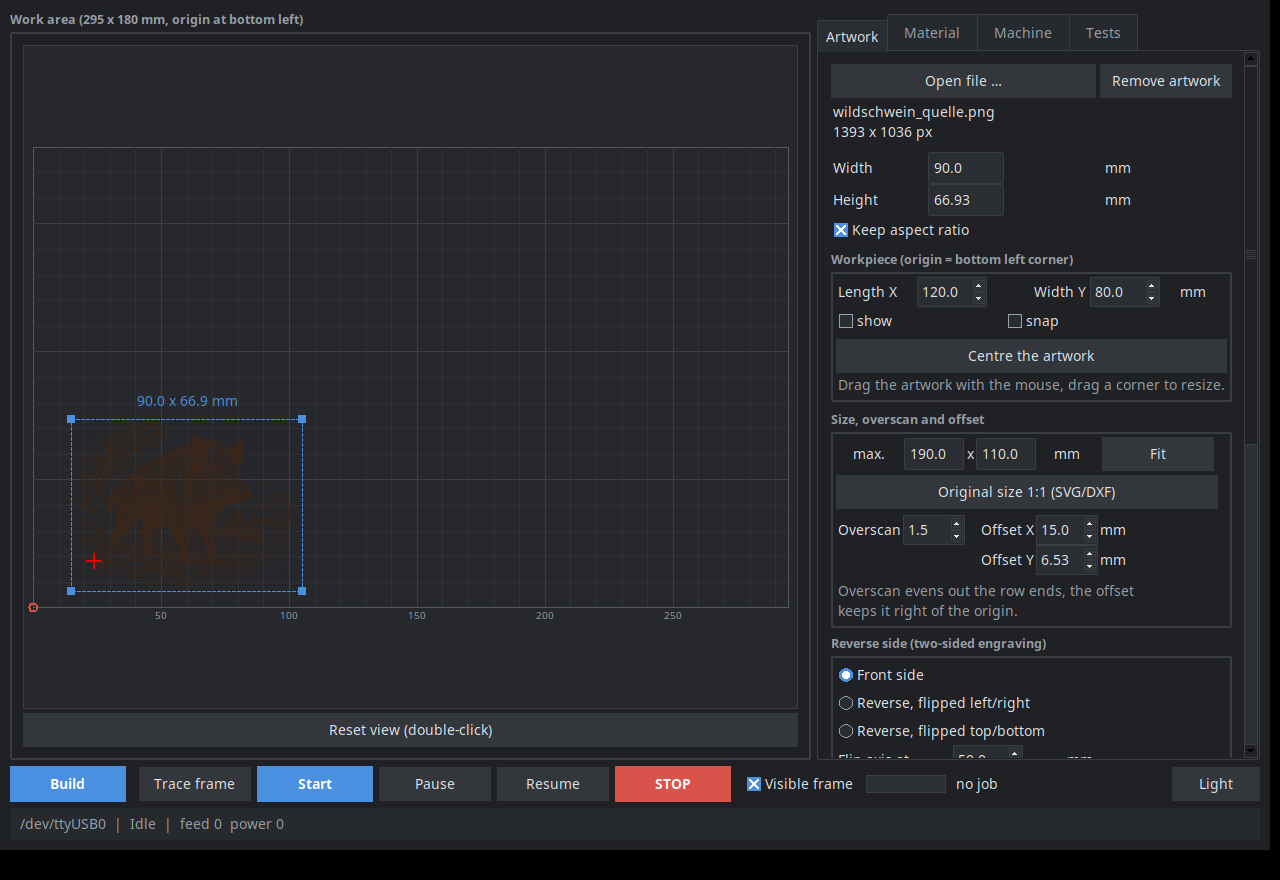
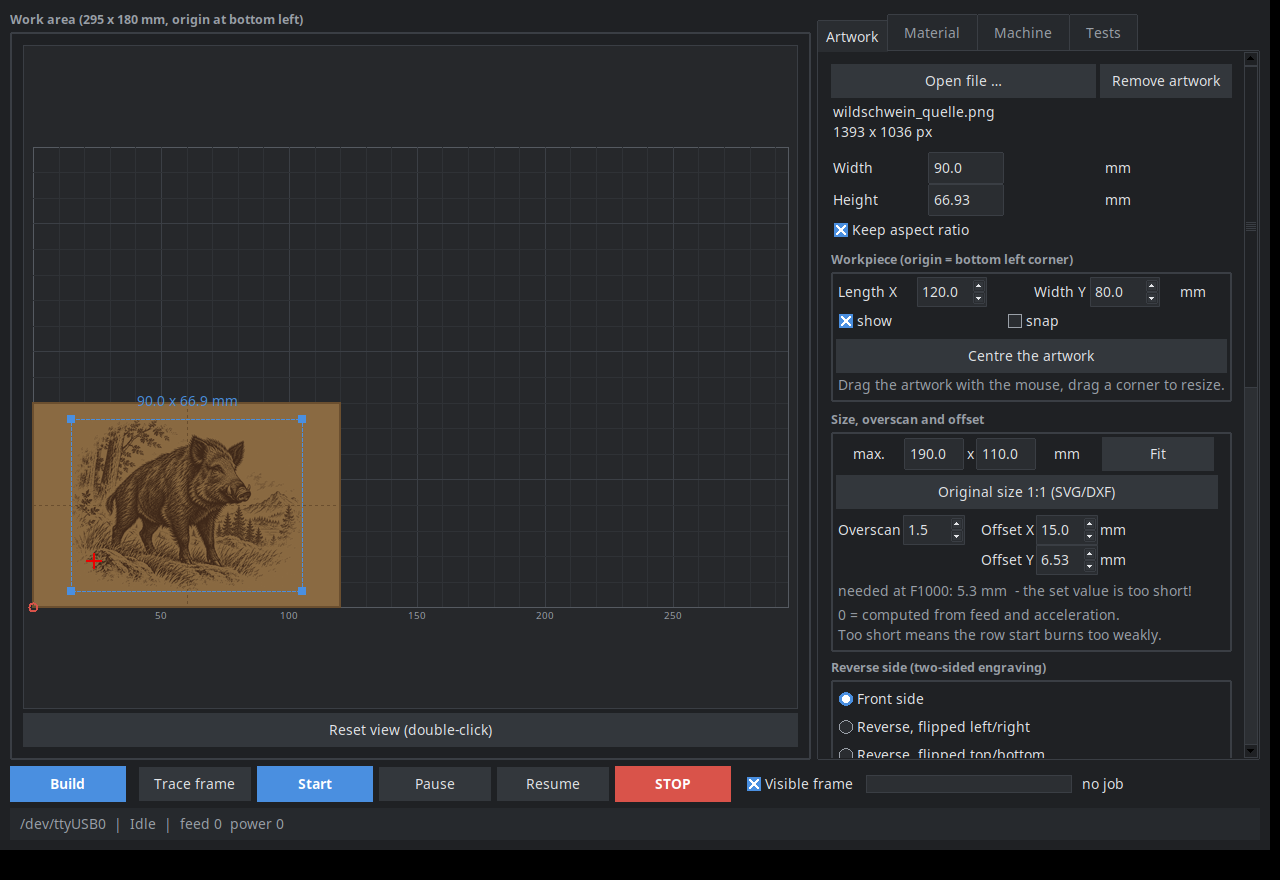
Bildkorrektur: Helligkeit, Kontrast, Schaerfen, Auto
Ohne das ist die Rasterung fuer Fotos unbrauchbar. Am Adler gemessen:
der Hintergrund liegt bei Helligkeit 237, also 7 Prozent Schwaerze, und
wird deshalb als duenner Punkteteppich ueber die ganze Flaeche gebrannt -
36 Prozent der Flaeche, und das Motiv versinkt darin. Nach Auto sind es
24 Prozent, der Hintergrund bleibt blankes Holz.

'Auto' nimmt das 1. und das 80. Perzentil als Schwarz- und Weisspunkt und
rechnet daraus die beiden Regler zurueck, der Benutzer sieht also, was
geschehen ist. Das obere Perzentil ist beherzt gewaehlt: was heller als
vier Fuenftel ist, soll auf Holz gar nicht brennen. Strichgrafik ruehrt
das nicht an - am Keiler gegengeprueft, dort schlaegt Auto 0/0 vor.

Die Korrektur gilt fuer alle drei Modi, wird in der Vorschau beim Schieben
schon gezeigt und wandert ins Projekt.

diff --git a/laserwerk.py b/laserwerk.py
@@ -124,7 +124,8 @@ class App:
         for v in (self.v_inv, self.v_mode, self.v_schw, self.v_rot,
                   self.v_s, self.v_f, self.v_line, self.v_job, self.v_passes,
                   self.v_xoff, self.v_over, self.v_yoff, self.v_gamma,
-                  self.v_spiegel, self.v_achse):
+                  self.v_spiegel, self.v_achse,
+                  self.v_hell, self.v_kontrast, self.v_schaerfe):
             v.trace_add("write", lambda *a: self._stale())
         for v in (self.v_f, self.v_over):
             v.trace_add("write", lambda *a: self._anlauf_zeigen())
@@ -323,8 +324,36 @@ class App:
         self.lbl_gammahilfe.grid(row=15, column=0, columnspan=3, sticky="w")
         self._gamma_zeigen()
 
+        bk = ttk.LabelFrame(f, text=T("Bildkorrektur"), padding=4)
+        bk.grid(row=16, column=0, columnspan=3, sticky="ew", pady=(8, 0))
+        self.v_hell = tk.DoubleVar(value=0.0)
+        self.v_kontrast = tk.DoubleVar(value=0.0)
+        self.v_schaerfe = tk.DoubleVar(value=0.0)
+        self.lbl_bk = {}
+        for r, (name, var, von, bis) in enumerate((
+                ("Helligkeit", self.v_hell, -100, 100),
+                ("Kontrast", self.v_kontrast, -100, 100),
+                ("Schärfen", self.v_schaerfe, 0, 100))):
+            ttk.Label(bk, text=T(name)).grid(row=r, column=0, sticky="w")
+            ttk.Scale(bk, from_=von, to=bis, variable=var, length=130,
+                      command=lambda v, k=name: self._bk_zeigen()
+                      ).grid(row=r, column=1, sticky="w", padx=(4, 0))
+            self.lbl_bk[name] = ttk.Label(bk, width=5, anchor="e")
+            self.lbl_bk[name].grid(row=r, column=2, sticky="w")
+        kb = ttk.Frame(bk)
+        kb.grid(row=3, column=0, columnspan=3, sticky="ew", pady=(4, 0))
+        ttk.Button(kb, text=T("Auto"), command=self.auto_tonwerte
+                   ).pack(side="left", fill="x", expand=True)
+        ttk.Button(kb, text=T("Zurücksetzen"), command=self.bk_zuruecksetzen
+                   ).pack(side="left", fill="x", expand=True, padx=(4, 0))
+        ttk.Label(bk, text=T("Fotos brauchen das fast immer: ohne Korrektur\n"
+                             "brennt ein hellgrauer Hintergrund als dünner\n"
+                             "Punkteteppich mit. 'Auto' zieht ihn auf Weiß."),
+                  style="Muted.TLabel").grid(row=4, column=0, columnspan=3, sticky="w")
+        self._bk_zeigen()
+
         jb = ttk.LabelFrame(f, text=T("Bearbeitung"), padding=4)
-        jb.grid(row=16, column=0, columnspan=3, sticky="ew", pady=(8, 0))
+        jb.grid(row=17, column=0, columnspan=3, sticky="ew", pady=(8, 0))
         self.v_job = tk.StringVar(value="gravur")
         ttk.Radiobutton(jb, text=T("Gravieren (Flächen, zeilenweise)"), value="gravur",
                         variable=self.v_job, command=self._job_changed).grid(row=0, column=0, columnspan=3, sticky="w")
@@ -336,15 +365,15 @@ class App:
                     ).grid(row=2, column=1, sticky="w")
 
         ttk.Button(f, text=T("Vorschau + G-Code erzeugen"), command=self.generate, style="Accent.TButton"
-                   ).grid(row=17, column=0, columnspan=3, sticky="ew", pady=(10, 2))
+                   ).grid(row=18, column=0, columnspan=3, sticky="ew", pady=(10, 2))
         self.lbl_info = ttk.Label(f, text="", justify="left")
-        self.lbl_info.grid(row=18, column=0, columnspan=3, sticky="w")
+        self.lbl_info.grid(row=19, column=0, columnspan=3, sticky="w")
         bb = ttk.Frame(f)
-        bb.grid(row=19, column=0, columnspan=3, sticky="ew", pady=6)
+        bb.grid(row=20, column=0, columnspan=3, sticky="ew", pady=6)
         ttk.Button(bb, text=T("G-Code speichern"), command=self.save_gcode).pack(side="left")
         ttk.Button(bb, text=T("G-Code laden"), command=self.load_gcode).pack(side="left", padx=4)
         pb = ttk.Frame(f)
-        pb.grid(row=20, column=0, columnspan=3, sticky="ew", pady=(0, 6))
+        pb.grid(row=21, column=0, columnspan=3, sticky="ew", pady=(0, 6))
         ttk.Button(pb, text=T("Projekt speichern"), command=self.save_project
                    ).pack(side="left", fill="x", expand=True)
         ttk.Button(pb, text=T("Projekt öffnen"), command=self.open_project
@@ -644,6 +673,8 @@ class App:
         ("v_w", "breite"), ("v_h", "hoehe"), ("v_lock", "verhaeltnis"),
         ("v_rot", "drehung"), ("v_inv", "invertiert"), ("v_mode", "modus"),
         ("v_schw", "schwelle"), ("v_gamma", "mitten"),
+        ("v_hell", "helligkeit"), ("v_kontrast", "kontrast"),
+        ("v_schaerfe", "schaerfe"),
         ("v_xoff", "versatz_x"), ("v_yoff", "versatz_y"), ("v_over", "anlauf"),
         ("v_spiegel", "spiegel"), ("v_achse", "wendeachse"),
         ("v_job", "bearbeitung"), ("v_passes", "durchgaenge"),
@@ -816,6 +847,39 @@ class App:
         self._stale()
         self._draw()
 
+    def _bk_zeigen(self, *_):
+        for name, var in (("Helligkeit", self.v_hell),
+                          ("Kontrast", self.v_kontrast),
+                          ("Schärfen", self.v_schaerfe)):
+            try:
+                self.lbl_bk[name].configure(text="%+.0f" % var.get()
+                                            if name != "Schärfen"
+                                            else "%.0f" % var.get())
+            except tk.TclError:
+                pass
+
+    def auto_tonwerte(self):
+        """Schwarz- und Weisspunkt aus dem Bild holen und als Regler setzen."""
+        if self.src is None:
+            messagebox.showinfo(T("Bildkorrektur"), T("Erst ein Bild oder SVG öffnen."))
+            return
+        h, k = J.auto_tonwerte(self.src)
+        self.v_hell.set(h)
+        self.v_kontrast.set(k)
+        self._bk_zeigen()
+        self._log(T("Auto-Tonwerte: Helligkeit {h:+.0f}, Kontrast {k:+.0f}").format(
+            h=h, k=k))
+        self._stale()
+        self._draw()
+
+    def bk_zuruecksetzen(self):
+        self.v_hell.set(0.0)
+        self.v_kontrast.set(0.0)
+        self.v_schaerfe.set(0.0)
+        self._bk_zeigen()
+        self._stale()
+        self._draw()
+
     def _gamma_zeigen(self):
         try:
             g = float(self.v_gamma.get())
@@ -883,6 +947,9 @@ class App:
                 src = J.autocrop(J.load_source(self.src_path, need), 245)
         p = J.prepare(src, w, h, line, invert=self.v_inv.get(),
                       gamma=max(0.2, float(self.v_gamma.get())),
+                      helligkeit=self.v_hell.get(),
+                      kontrast=self.v_kontrast.get(),
+                      schaerfe=self.v_schaerfe.get(),
                       rotate=self.v_rot.get(), mode=self.v_mode.get(),
                       schwelle=self.v_schw.get())
         over = self._anlauf(f)
@@ -2103,7 +2170,9 @@ class App:
         # waehrend des Ziehens grob skalieren, danach sauber
         glatt = Image.BILINEAR if self.drag else Image.LANCZOS
         rot, inv, sp = self.v_rot.get(), self.v_inv.get(), self.v_spiegel.get()
-        key = (w_px, h_px, rot, inv, sp, glatt, id(self.src))
+        bk = (round(self.v_hell.get()), round(self.v_kontrast.get()),
+              round(self.v_schaerfe.get()))
+        key = (w_px, h_px, rot, inv, sp, glatt, bk, id(self.src))
         if self._live_cache and self._live_cache[0] == key:
             return self._live_cache[1]
         im = self.src
@@ -2114,6 +2183,7 @@ class App:
         elif sp == "y":
             im = im.transpose(Image.FLIP_TOP_BOTTOM)
         im = im.resize((w_px, h_px), glatt)
+        im = J.bildkorrektur(im, *bk)
         if inv:
             from PIL import ImageOps
             im = ImageOps.invert(im)

diff --git a/lw_job.py b/lw_job.py
@@ -8,8 +8,9 @@ Grundregeln aus der Praxis:
   - Nullpunkt = linke untere Ecke des Motivs, alle Koordinaten positiv.
 """
 import io, os, subprocess, tempfile
+import math
 import numpy as np
-from PIL import Image
+from PIL import Image, ImageFilter
 
 S_MAX = 1000          # $30
 ACCEL = 30.0          # $120 mm/s^2
@@ -50,14 +51,62 @@ def autocrop(im, schwelle=240):
 
 
 # ---------------------------------------------------------------- Raster
+def bildkorrektur(im, helligkeit=0.0, kontrast=0.0, schaerfe=0.0):
+    """Tonwerte und Schaerfe vor dem Rastern.
+
+    Fotos kommen selten so, dass sie auf Holz funktionieren: der
+    Hintergrund ist hellgrau statt weiss und wird deshalb als duenner
+    Punkteteppich mitgebrannt, und feine Zeichnung geht beim Verkleinern
+    verloren. Beides laesst sich hier geradeziehen.
+
+    helligkeit, kontrast: -100 bis +100.  schaerfe: 0 bis 100.
+    Geschaerft wird nach dem Verkleinern - vorher waere es wirkungslos.
+    """
+    if schaerfe:
+        im = im.filter(ImageFilter.UnsharpMask(
+            radius=2, percent=int(max(0.0, min(schaerfe, 100.0)) * 2.5),
+            threshold=3))
+    if not helligkeit and not kontrast:
+        return im
+    a = np.asarray(im).astype(np.float32) / 255.0
+    c = 2.0 ** (float(kontrast) / 50.0)            # +100 -> 4x, -100 -> 0,25x
+    a = (a - 0.5) * c + 0.5 + float(helligkeit) / 200.0
+    return Image.fromarray((np.clip(a, 0, 1) * 255).astype(np.uint8), "L")
+
+
+def auto_tonwerte(im, unten=1.0, oben=20.0):
+    """Helligkeit und Kontrast so, dass der Hintergrund weiss wird.
+
+    Nimmt das untere und obere Perzentil als Schwarz- und Weisspunkt und
+    rechnet daraus die beiden Regler zurueck - der Benutzer sieht also,
+    was 'Auto' getan hat, und kann weiterdrehen.
+
+    Das obere Perzentil ist mit 20 bewusst beherzt gewaehlt. Fuer einen
+    Bildschirm waere das zu viel, fuer Holz nicht: was heller als etwa
+    vier Fuenftel ist, soll blankes Holz bleiben und nicht als duenner
+    Punkteteppich mitbrennen. Strichgrafik ruehrt das nicht an, die hat
+    dort ohnehin nichts liegen.
+    """
+    a = np.asarray(im.convert("L")).astype(np.float32) / 255.0
+    lo = float(np.percentile(a, unten))
+    hi = float(np.percentile(a, 100.0 - oben))
+    if hi - lo < 0.02:
+        return 0.0, 0.0
+    c = min(4.0, max(0.25, 1.0 / (hi - lo)))
+    h = ((0.5 - lo) / (hi - lo) - 0.5) * 200.0
+    return round(max(-100.0, min(100.0, h)), 1), round(50.0 * math.log2(c), 1)
+
+
 def prepare(im, w_mm, h_mm, line, invert=False, rotate=0,
-            mode="schwelle", schwelle=0.5, gamma=1.0):
+            mode="schwelle", schwelle=0.5, gamma=1.0,
+            helligkeit=0.0, kontrast=0.0, schaerfe=0.0):
     """Liefert Leistungsmatrix 0..1 (1 = volle Leistung), Zeile 0 = oben."""
     if rotate:
         im = im.rotate(-rotate, expand=True, fillcolor=255)
     nx = max(1, int(round(w_mm / line)))
     ny = max(1, int(round(h_mm / line)))
     im = im.resize((nx, ny), Image.LANCZOS)
+    im = bildkorrektur(im, helligkeit, kontrast, schaerfe)
     a = np.asarray(im).astype(np.float32) / 255.0
     dunkel = 1.0 - a
     if invert:

diff --git a/tests/test_job.py b/tests/test_job.py
@@ -250,3 +250,56 @@ class Anlauf(unittest.TestCase):
 
     def test_null_stuerzt_nicht_ab(self):
         self.assertGreaterEqual(J.anlauf_noetig(0, 0), 0.0)
+
+
+class Bildkorrektur(unittest.TestCase):
+    def setUp(self):
+        # Foto mit hellgrauem Hintergrund und mittlerem Motiv
+        a = np.full((200, 300), 235, dtype=np.uint8)
+        a[60:140, 80:220] = 120
+        self.foto = Image.fromarray(a)
+
+    def test_ohne_werte_bleibt_das_bild(self):
+        gleich = J.bildkorrektur(self.foto, 0, 0, 0)
+        self.assertEqual(list(gleich.getdata())[:5],
+                         list(self.foto.getdata())[:5])
+
+    def test_kontrast_spreizt(self):
+        vorher = np.asarray(self.foto, dtype=float).std()
+        nachher = np.asarray(J.bildkorrektur(self.foto, 0, 50, 0), dtype=float).std()
+        self.assertGreater(nachher, vorher)
+
+    def test_helligkeit_hebt(self):
+        vorher = np.asarray(self.foto, dtype=float).mean()
+        nachher = np.asarray(J.bildkorrektur(self.foto, 40, 0, 0), dtype=float).mean()
+        self.assertGreater(nachher, vorher)
+
+    def test_auto_zieht_den_hintergrund_auf_weiss(self):
+        h, k = J.auto_tonwerte(self.foto)
+        roh = J.prepare(self.foto, 60.0, 40.0, 0.15, mode="raster")
+        auto = J.prepare(self.foto, 60.0, 40.0, 0.15, mode="raster",
+                         helligkeit=h, kontrast=k)
+        # Hintergrund oben links: vorher ein duenner Teppich, danach nichts
+        self.assertGreater(roh[:20, :20].sum(), 0.0)
+        self.assertEqual(auto[:20, :20].sum(), 0.0)
+        # das Motiv wird dafuer kraeftiger, der Abstand waechst
+        mitte = (slice(80, 120), slice(120, 180))
+        self.assertGreater(auto[mitte].mean(), roh[mitte].mean())
+
+    def test_auto_laesst_strichgrafik_in_ruhe(self):
+        a = np.full((200, 300), 255, dtype=np.uint8)
+        a[50:150, 50:250] = 0
+        h, k = J.auto_tonwerte(Image.fromarray(a))
+        self.assertAlmostEqual(h, 0.0, delta=2.0)
+        self.assertAlmostEqual(k, 0.0, delta=2.0)
+
+    def test_schaerfen_hebt_die_kanten(self):
+        weich = self.foto.filter(__import__("PIL.ImageFilter", fromlist=["x"]).GaussianBlur(2))
+        a = np.asarray(weich, dtype=float)
+        b = np.asarray(J.bildkorrektur(weich, 0, 0, 80), dtype=float)
+        self.assertGreater(np.abs(np.diff(b, axis=1)).mean(),
+                           np.abs(np.diff(a, axis=1)).mean())
+
+    def test_auto_bei_einfarbigem_bild(self):
+        flach = Image.fromarray(np.full((50, 50), 128, dtype=np.uint8))
+        self.assertEqual(J.auto_tonwerte(flach), (0.0, 0.0))

diff --git a/lw_text.py b/lw_text.py
@@ -675,4 +675,16 @@ EN = {
         "Too short means the row start burns too weakly.",
     "nötig bei F{f:.0f}: {n:.1f} mm": "needed at F{f:.0f}: {n:.1f} mm",
     "  - eingestellt zu kurz!": "  - the set value is too short!",
+    # ---- Bildkorrektur
+    "Bildkorrektur": "Image correction",
+    "Helligkeit": "Brightness", "Kontrast": "Contrast", "Schärfen": "Sharpen",
+    "Auto": "Auto", "Zurücksetzen": "Reset",
+    "Fotos brauchen das fast immer: ohne Korrektur\n"
+    "brennt ein hellgrauer Hintergrund als dünner\n"
+    "Punkteteppich mit. 'Auto' zieht ihn auf Weiß.":
+        "Photos nearly always need this: without it a\n"
+        "light grey background burns as a thin carpet\n"
+        "of dots. 'Auto' pulls it to white.",
+    "Auto-Tonwerte: Helligkeit {h:+.0f}, Kontrast {k:+.0f}":
+        "Auto levels: brightness {h:+.0f}, contrast {k:+.0f}",
 }

diff --git a/README.md b/README.md
@@ -32,6 +32,10 @@ settings for a new material.
   threshold. Plus a midtone control and overscan at the row ends.
 - **Cut** — contours from SVG and DXF, inner before outer, several passes,
   original size 1:1 for templates straight out of CAD.
+- **Image correction** — brightness, contrast and sharpening, plus an Auto
+  button that takes the black and white point from the image. Photos nearly
+  always need it: a light grey background otherwise burns as a thin carpet of
+  dots and eats the subject's contrast.
 - **Place** — enter the length and width of your workpiece, then drag the
   artwork onto it with the mouse and resize it by its corners, snapping to
   edges, corners and centre. Rotate to any angle, not just multiples of 90°.

diff --git a/README.de.md b/README.de.md
@@ -32,6 +32,10 @@ Material ausprobieren will.
   Zeilenenden.
 - **Schneiden** — Konturen aus SVG und DXF, innen vor außen, mehrere Durchgänge,
   Originalgröße 1:1 für Schablonen aus dem CAD.
+- **Bildkorrektur** — Helligkeit, Kontrast und Schärfen, dazu ein
+  Auto-Knopf, der Schwarz- und Weißpunkt aus dem Bild holt. Fotos brauchen
+  das fast immer: ein hellgrauer Hintergrund brennt sonst als dünner
+  Punkteteppich mit und frisst den Kontrast des Motivs.
 - **Platzieren** — Werkstück mit Länge und Breite angeben, Motiv mit der Maus
   darauf schieben und an den Ecken skalieren, mit Einrasten auf Kanten, Ecken
   und Mitte. Drehen in beliebigen Winkeln, nicht nur in 90er-Schritten.
